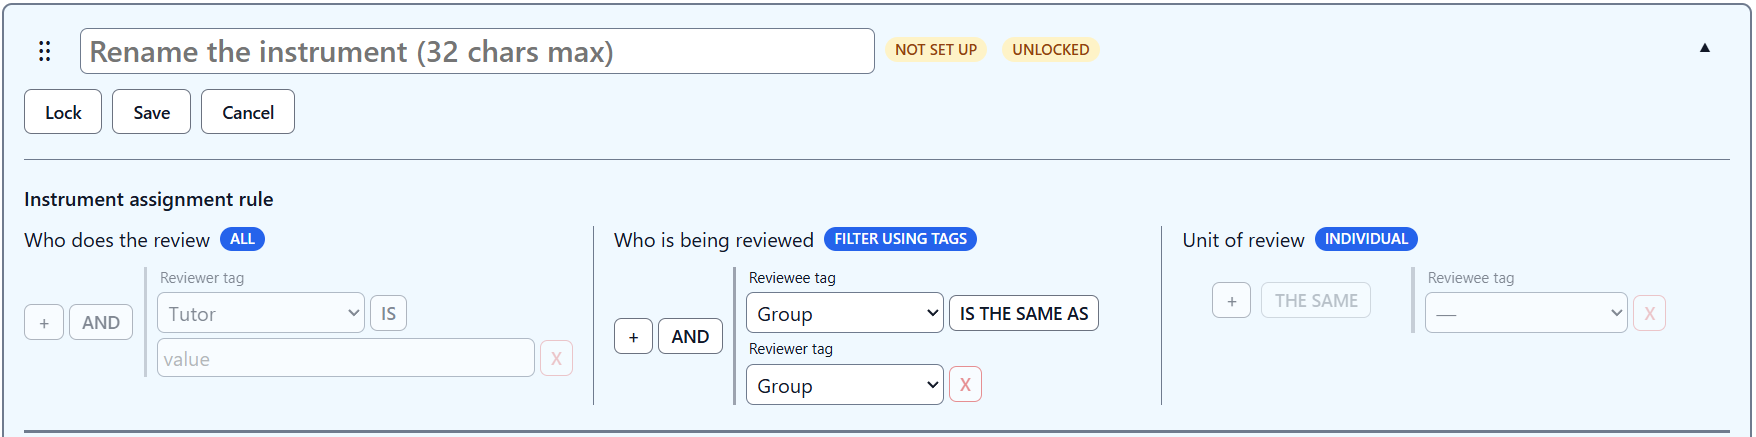
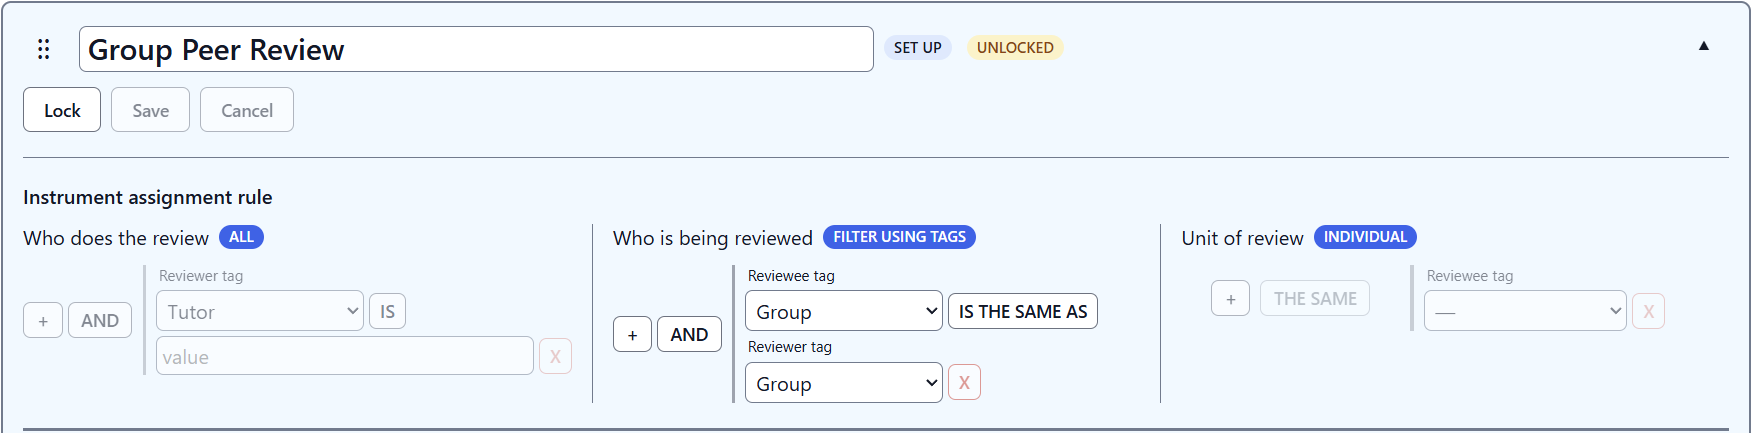
docs(guide): refresh the assignment-rule and Assignments screencaps
Two supplied captures replace their predecessors in place — same
crops, same figures, no template restructuring:

- `instrument-card-assignment-rule.png` now shows a real, configured
  instrument. The old capture was of a fresh card: the name box held
  its `Rename the instrument (32 chars max)` placeholder and the pill
  read `NOT SET UP`, so the figure illustrating "set the assignment
  rule" was of an instrument that had not been set up. The new one is
  named `Group Peer Review` and reads `SET UP`.
- `assignments-page.png` refreshes the Per-instrument status card's
  numbers (854 / 153 → 3390 / 154).

The assignment-rule figure's alt text is updated to match what the
image now shows — the instrument's name and the `SET UP` pill in
place of the empty rename box. The Assignments alt text is unchanged:
the card and its controls are the same, only the counts moved.

Claude-Session: https://claude.ai/code/session_01ABBpXQo5189pjtitoJhMgK

diff --git a/app/web/templates/guide.html b/app/web/templates/guide.html
@@ -196,9 +196,10 @@
     </p>
     <figure class="guide-figure">
       <img src="/static/guide/instrument-card-assignment-rule.png"
-           alt="The top of an unlocked instrument card: the rename box with
-                Lock, Save and Cancel buttons, and the Instrument assignment
-                rule band showing Who does the review set to ALL, Who is being
+           alt="The top of an unlocked instrument card named Group Peer
+                Review, carrying the SET UP and UNLOCKED pills, with Lock,
+                Save and Cancel buttons, and the Instrument assignment rule
+                band showing Who does the review set to ALL, Who is being
                 reviewed set to FILTER USING TAGS with Group IS THE SAME AS
                 Group, and Unit of review set to INDIVIDUAL.">
     </figure>
